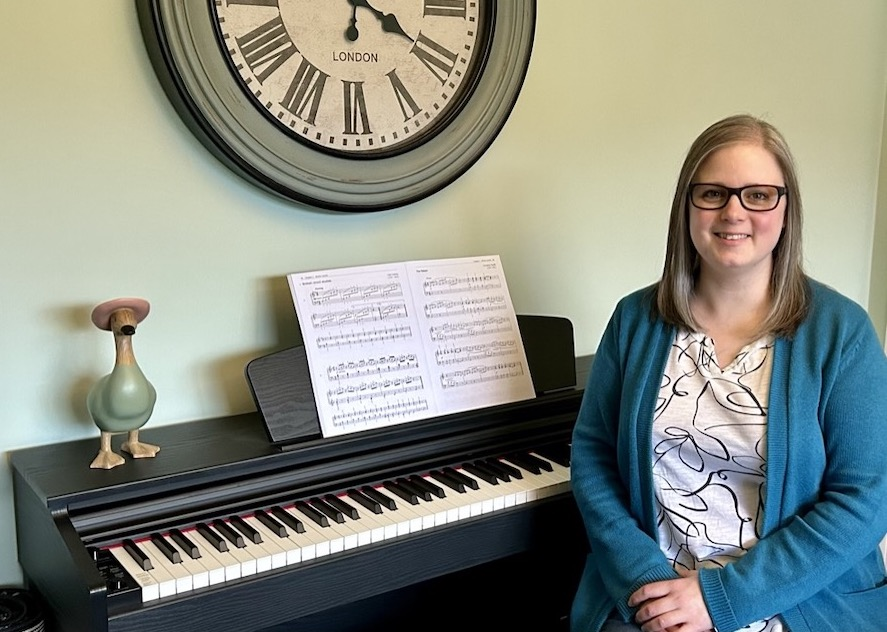
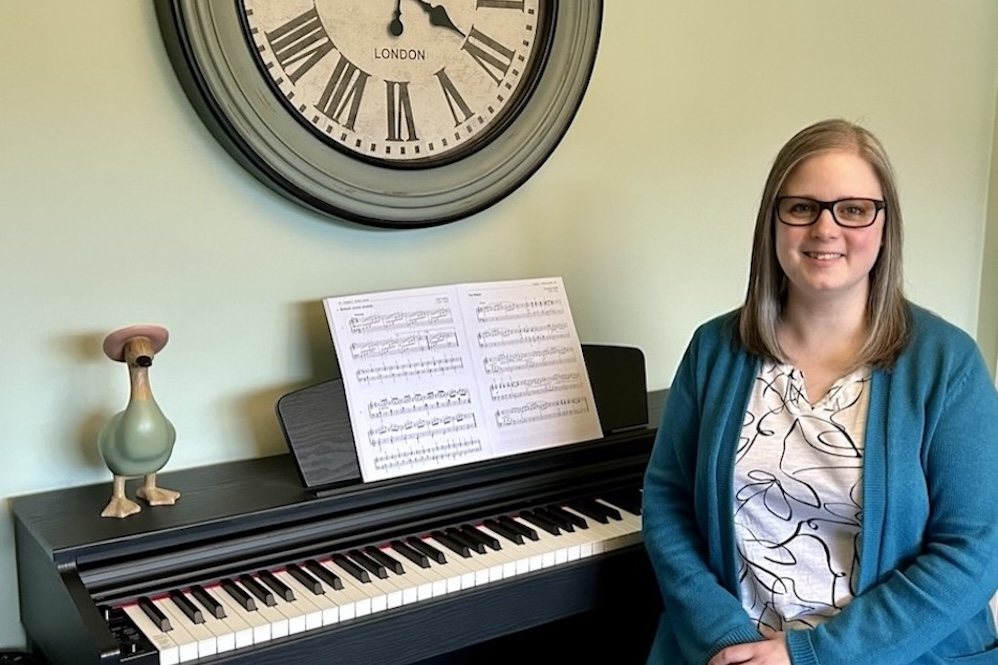
Add Hero carousel; remove About carousel; update About & CSS

diff --git a/src/styles.css b/src/styles.css
@@ -1,5 +1,6 @@
 body {
 	display: flex;
+	width: 100%;
 	min-height: 100vh;
 	flex-direction: column;
 }
@@ -8,7 +9,7 @@ body {
 /* NAVIGATION */
 
 .nav-container {
-	max-width: 1400px;
+	/* max-width: 1400px; */
 	font-size: 1.2rem;
 }
 
@@ -43,15 +44,18 @@ body {
 /* MAIN CONTENT */
 
 .main-content {
-	max-width: 1400px;
+	/* max-width: 1400px; */
+	width: 100%;
 	font-size: 16px;
 	margin: auto;
-	padding: 0 20px;
+	/* padding: 0 20px; */
 	/* scroll-behavior: smooth; */
 }
 
 section {
-	margin: 55px 0 80px 0;
+	max-width: 1400px;
+	margin: 55px auto 80px;
+	padding: 0 20px;
 	scroll-margin-top: 110px;
 }
 
@@ -86,19 +90,33 @@ main a:hover {
 	font-size: 20px;
 }
 
+.carousel {
+	width: 100%;
+	position: relative;
+	margin-top: 50px;
+}
+
 .carousel-inner {
-	border-radius: 7px;
 	width: auto;
 }
 
 .carousel-item>img {
-	height: 300px;
+	max-height: 325px;
 	width: auto;
 	object-fit: cover;
 }
 
 .heading-mb {
 	margin-bottom: 15px;
+}
+
+.profile-img img {
+	width: 100px;
+	margin: 0 0 20px 20px;
+	background-color: #F8F9FA;
+	border-radius: 7px;
+	box-shadow: 7px 8px 5px #e3e6e8;
+	overflow: hidden;
 }
 
 .accordion-button {
@@ -238,16 +256,18 @@ main a:hover {
 	border-radius: 0.25rem;
 }
 
-#contact {
-	margin-top: 100px;
-}
-
 
 /* FORMS */
 
 fieldset {
 	max-width: 700px;
 	margin-left: 2px;
+}
+
+#contact {
+	margin-top: 100px;
+	max-width: 750px;
+
 }
 
 
@@ -286,6 +306,14 @@ footer {
 		margin-left: auto;
 	}
 
+	section {
+		padding: 0 40px;
+	}
+
+	.carousel-item>img {
+		max-height: 350px;
+	}
+
 	#contact {
 		border: 1px solid #e6e6e6;
 		border-radius: 7px;
@@ -312,6 +340,10 @@ footer {
 	#hide-md {
 		display: none;
 	}
+
+	.carousel-item>img {
+		max-height: 330px;
+	}
 }
 
 @media only screen and (min-width: 851px) {
@@ -319,6 +351,10 @@ footer {
 	/* Show 'Software Testing' and hide 'Testing' heading on larger screens: */
 	#hide-not-md {
 		display: none;
+	}
+
+	.carousel-item>img {
+		max-height: 355px;
 	}
 }
 
@@ -338,5 +374,9 @@ footer {
 
 	.project__image-wrapper img {
 		margin: 5px 0 30px 30px;
+	}
+
+	.carousel-item>img {
+		max-height: 630px;
 	}
 }

diff --git a/.eleventy.js b/.eleventy.js
@@ -6,7 +6,7 @@ const EleventyImage = require("@11ty/eleventy-img");
 async function imageShortcode(src, alt, sizes) {
   let metadata = await EleventyImage(`./src${src}`, {
     widths: [300, 800, null],
-    formats: ["avif", "jpeg", "jpg", "png"],
+    formats: ["avif", "jpeg", "jpg", "png", "tiff"],
     urlPath: "/images/",
     outputDir: "./_site/images/"
   });
